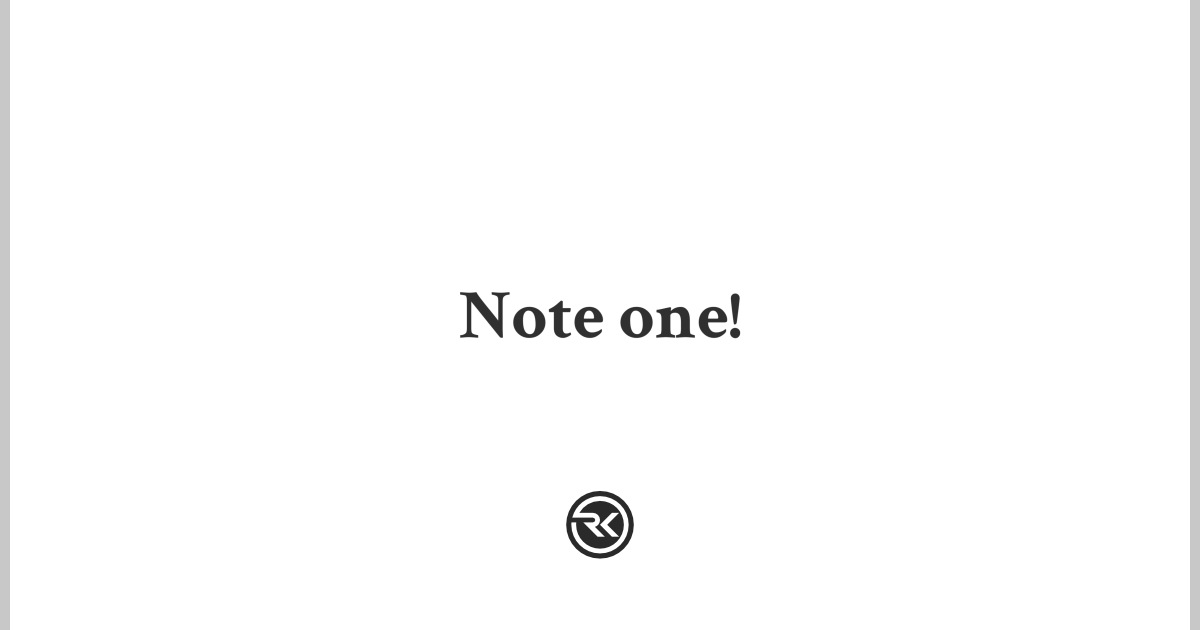
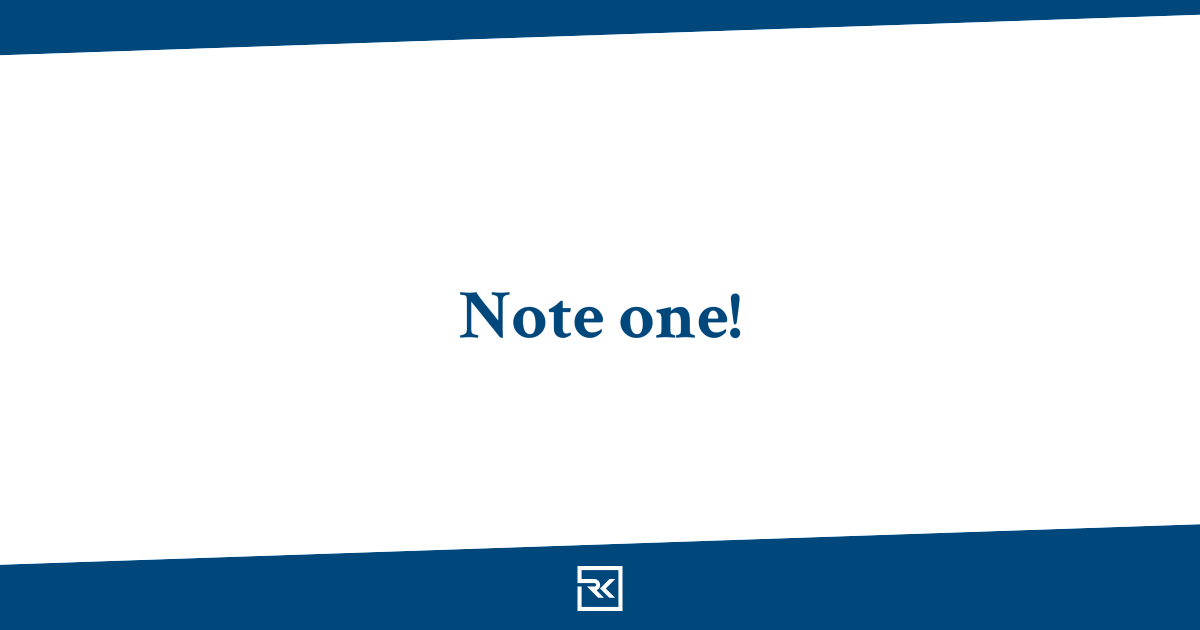
20200109 update.

Changed region(s): [[0.0, 0.0, 1.0, 1.0], [0.37, 0.4524, 0.6167, 0.5429]]

diff --git a/packages/gatsby-theme-blog-core/gatsby-node.js b/packages/gatsby-theme-blog-core/gatsby-node.js
@@ -19,7 +19,8 @@ exports.createSchemaCustomization = ({ actions }) => {
   actions.createTypes(`
         type BlogPage implements Node @dontInfer {
             id: ID!
-            title: String!
+            title: String
+            seoTitle: String!
             path: String!
             updated: Date! @dateformat
             body: String!
@@ -44,10 +45,12 @@ exports.onCreateNode = ({ node, actions, getNode, createNodeId }, options) => {
       parent.relativeDirectory,
       pageName
     )
-    console.log(pagePath)
+
     actions.createNode({
       id: createNodeId(`BlogPage-${node.id}`),
-      title: node.frontmatter.title || parent.name,
+      title: node.frontmatter.title || "",
+      seoTitle:
+        node.frontmatter.seoTitle || node.frontmatter.title || parent.name,
       updated: parent.modifiedTime,
       path: pagePath,
       parent: node.id,
@@ -103,16 +106,18 @@ exports.createResolvers = ({ createResolvers }) => {
 }
 
 exports.createPages = async ({ actions, graphql, reporter }, options) => {
-
-  const {ns, basePath, description} = withDefaults(options)
+  const { ns, basePath, description, titleField, contentPath } = withDefaults(
+    options
+  )
 
   const result = await graphql(`
     query {
-      allBlogPage(sort: { fields: updated, order: DESC }, limit: 2000) {
+      allBlogPage(filter: {basePath: {eq: "${basePath}"}}, sort: { fields: updated, order: DESC }, limit: 2000) {
         nodes {
           id
           path
           title
+          seoTitle
           basePath
           updated
         }
@@ -125,11 +130,12 @@ exports.createPages = async ({ actions, graphql, reporter }, options) => {
   }
 
   const blogPageTemplate = require.resolve("./src/templates/blog-page-template")
-  const blogArchiveTemplate = require.resolve("./src/templates/blog-archive-template")
+  const blogArchiveTemplate = require.resolve(
+    "./src/templates/blog-archive-template"
+  )
 
   const pages = result.data.allBlogPage.nodes
 
-  // console.log(options)
   actions.createPage({
     path: basePath,
     component: blogArchiveTemplate,
@@ -145,7 +151,7 @@ exports.createPages = async ({ actions, graphql, reporter }, options) => {
       component: blogPageTemplate,
       context: {
         pageID: page.id,
-        ogImage: `${page.basePath}.*/${slugify(page.title).replace(
+        ogImage: `/${contentPath}.*/${slugify(page[titleField]).replace(
           "*",
           "*"
         )}-og.png/`,

diff --git a/packages/gatsby-theme-blog-og-image/utils/default-options.js b/packages/gatsby-theme-blog-og-image/utils/default-options.js
@@ -7,32 +7,34 @@ module.exports = ({
   ns = "@korf/gatsby-theme-blog",
   ogWidth = 1200,
   ogHeight = 630,
-  ogBackgroundColor = 'rgb(255,255,255)',
-  ogBackgroundImage = path.join(__dirname, '..', 'assets', 'background.png'),
+  ogBackgroundColor = "rgb(255,255,255)",
+  ogBackgroundImage = path.join(__dirname, "..", "assets", "background.png"),
   // ogBaseFontSize is the original size of the BMFont. Its better to use a big one and scale down.
   ogBaseFontSize = 288,
   ogFontSize = 70,
-  ogVBandColor = 'rgb(200,200,200)',
-  ogVBandWidth = 10,
-  ogHBandColor = 'rgb(200,200,200)',
+  ogVBandColor = "rgb(200,200,200)",
+  ogVBandWidth = 0,
+  ogHBandColor = "rgb(200,200,200)",
   ogHBandWidth = 0,
-  ogTextColor = 'rgb(48,48,48)',
+  ogTextColor = "rgb(0,71,124)",
   ogTextOpacity = 1.0,
+  titleField = "seoTitle",
 }) => ({
-    basePath,
-    imagePath,
-    ogHeight,
-    ogWidth,
-    contentPath,
-    ogBackgroundColor,
-    ogBaseFontSize,
-    ogFontSize,
-    ns,
-    ogBackgroundImage,
-    ogVBandColor,
-    ogVBandWidth,
-    ogHBandColor,
-    ogHBandWidth,
-    ogTextColor,
-    ogTextOpacity,
-});
+  basePath,
+  imagePath,
+  ogHeight,
+  ogWidth,
+  contentPath,
+  ogBackgroundColor,
+  ogBaseFontSize,
+  ogFontSize,
+  ns,
+  ogBackgroundImage,
+  ogVBandColor,
+  ogVBandWidth,
+  ogHBandColor,
+  ogHBandWidth,
+  ogTextColor,
+  ogTextOpacity,
+  titleField,
+})

diff --git a/packages/gatsby-theme-blog/src/components/seo.js b/packages/gatsby-theme-blog/src/components/seo.js
@@ -27,7 +27,6 @@ function SEO({ description, lang, meta, keywords, title, image }) {
   )
 
   const metaDescription = description || site.siteMetadata.description
-      console.log(site)
   return (
     <Helmet
       htmlAttributes={{
@@ -53,8 +52,8 @@ function SEO({ description, lang, meta, keywords, title, image }) {
           content: `website`,
         },
         {
-            property: `og:image`,
-            content: image,
+          property: `og:image`,
+          content: image,
         },
         {
           name: `twitter:card`,
@@ -73,8 +72,8 @@ function SEO({ description, lang, meta, keywords, title, image }) {
           content: metaDescription,
         },
         {
-            property: `twitter:image`,
-            content: `${site.siteMetadata.domain}/${image}`,
+          property: `twitter:image`,
+          content: (site.siteMetadata.domain + "/" + image).replace("///", "/"),
         },
       ]
         .concat(

diff --git a/packages/gatsby-theme-blog-og-image/gatsby-node.js b/packages/gatsby-theme-blog-og-image/gatsby-node.js
@@ -23,6 +23,7 @@ exports.onCreateNode = async ({ store, node }, options) => {
     ogHBandWidth,
     ogTextColor,
     ogTextOpacity,
+    titleField,
   } = withDefaults(options)
 
   const dir = path.join(program.directory, contentPath, imagePath)
@@ -30,7 +31,7 @@ exports.onCreateNode = async ({ store, node }, options) => {
 
   // Only BlogPage nodes within the expected namespace.
   if (node.internal.type === "BlogPage" && node.sourceInstanceName === ns) {
-    const name = slugify(node.title)
+    const name = slugify(node[titleField])
 
     const img = fs.existsSync(ogBackgroundImage)
       ? await Jimp.read(ogBackgroundImage)
@@ -68,7 +69,7 @@ exports.onCreateNode = async ({ store, node }, options) => {
       0,
       0,
       {
-        text: node.title,
+        text: node[titleField],
         alignmentX: Jimp.HORIZONTAL_ALIGN_CENTER,
         alignmentY: Jimp.VERTICAL_ALIGN_MIDDLE,
       },

diff --git a/packages/gatsby-theme-blog/src/components/blog-page.js b/packages/gatsby-theme-blog/src/components/blog-page.js
@@ -8,15 +8,13 @@ import { Styled } from "theme-ui"
 const BlogPage = ({ path, data }) => {
   const { page, ogImage } = data
 
-  const title = path !== "/" ? page.title : ""
-
   return (
     <Layout>
       <SEO
-        title={page.title}
+        title={page.seoTitle}
         image={ogImage ? ogImage.childImageSharp.fixed.src : null}
       />
-      <Styled.h1>{title}</Styled.h1>
+      <Styled.h1>{page.title}</Styled.h1>
       <MDXRenderer>{page.body}</MDXRenderer>
       {/* { path !== "/" ?
       <p sx={{

diff --git a/packages/gatsby-theme-blog/src/components/header.js b/packages/gatsby-theme-blog/src/components/header.js
@@ -71,10 +71,10 @@ const Header = () => {
               sx={{
                 variant: "layout.Header.Container.Navigation.Item",
               }}
+              key={item.name}
             >
               <Link
                 to={item.url}
-                key={item.name}
                 sx={{
                   variant: "layout.Header.Container.Navigation.Item.Link",
                 }}

diff --git a/packages/gatsby-theme-blog-core/utils/default-options.js b/packages/gatsby-theme-blog-core/utils/default-options.js
@@ -3,11 +3,13 @@ module.exports = ({
   basePath = "/",
   contentPath = "blog",
   useExternalMDX = false,
-  ns = "@korf/gatsby-theme-blog"
+  ns = "@korf/gatsby-theme-blog",
+  titleField = "seoTitle",
 }) => ({
-    description,
-    basePath,
-    contentPath,
-    useExternalMDX,
-    ns
-});
+  description,
+  basePath,
+  contentPath,
+  useExternalMDX,
+  ns,
+  titleField,
+})

diff --git a/www/gatsby-config.js b/www/gatsby-config.js
@@ -3,7 +3,7 @@ module.exports = {
     title: `Rheinard Korf`,
     author: `Rheinard Korf`,
     description: `A personal blog to explore what motivates, drives and excites me (and hopefully someone else).`,
-    domain: `http://rheinardkorf.com/`,
+    // domain: `http://rheinardkorf.com/`,
     primaryNav: [
       {
         name: `Posts`,

diff --git a/packages/gatsby-theme-blog-core/src/templates/blog-page-template.js b/packages/gatsby-theme-blog-core/src/templates/blog-page-template.js
@@ -5,6 +5,7 @@ export const query = graphql`
   query($pageID: String, $ogImage: String) {
     page: blogPage(id: { eq: $pageID }) {
       title
+      seoTitle
       updated(fromNow: true)
       body
       sourceInstanceName
@@ -21,5 +22,4 @@ export const query = graphql`
     }
   }
 `
-
 export default BlogPage

diff --git a/packages/gatsby-theme-blog/src/theme.js b/packages/gatsby-theme-blog/src/theme.js
@@ -106,6 +106,7 @@ export const theme = {
           p: 0,
           display: "flex",
           flex: "1 1 100%",
+          justifyContent: ["center", "flex-end"],
 
           Item: {
             Link: {

diff --git a/packages/gatsby-theme-blog/src/reset.js b/packages/gatsby-theme-blog/src/reset.js
@@ -10,7 +10,6 @@ export const reset = {
   },
   body: {
     overflowX: "hidden",
-    "overflow-x": "hidden",
     margin: 0,
     scrollbarWidth: "thin",
     "&::-webkit-scrollbar": {

diff --git a/www/content/pages/index.md b/www/content/pages/index.md
@@ -1,5 +1,5 @@
 ---
-title: The personal site of one Rheinard Korf
+seoTitle: The personal site of one Rheinard Korf
 ---
 
 # Welcome!
